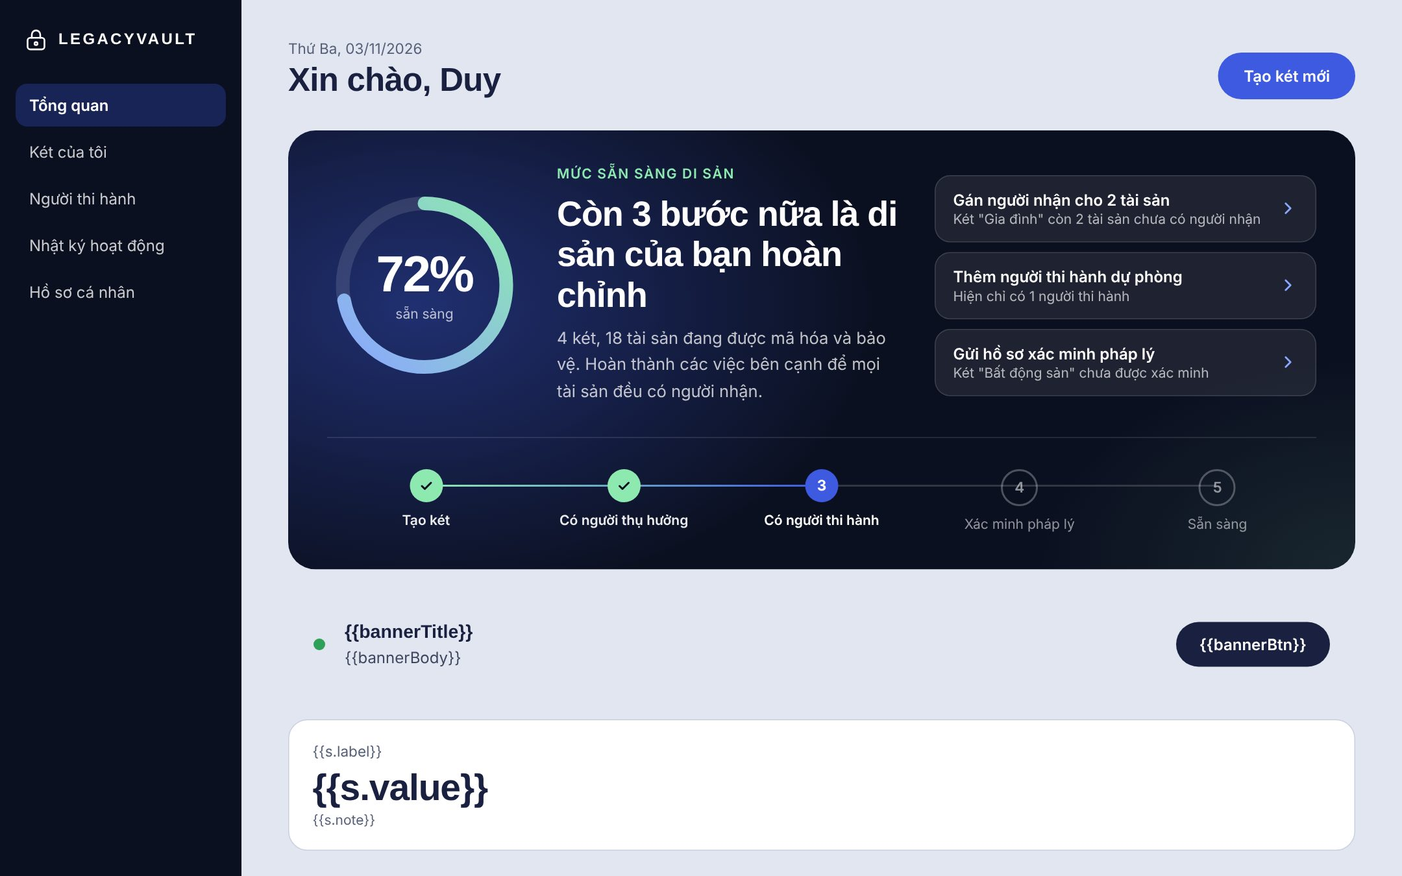
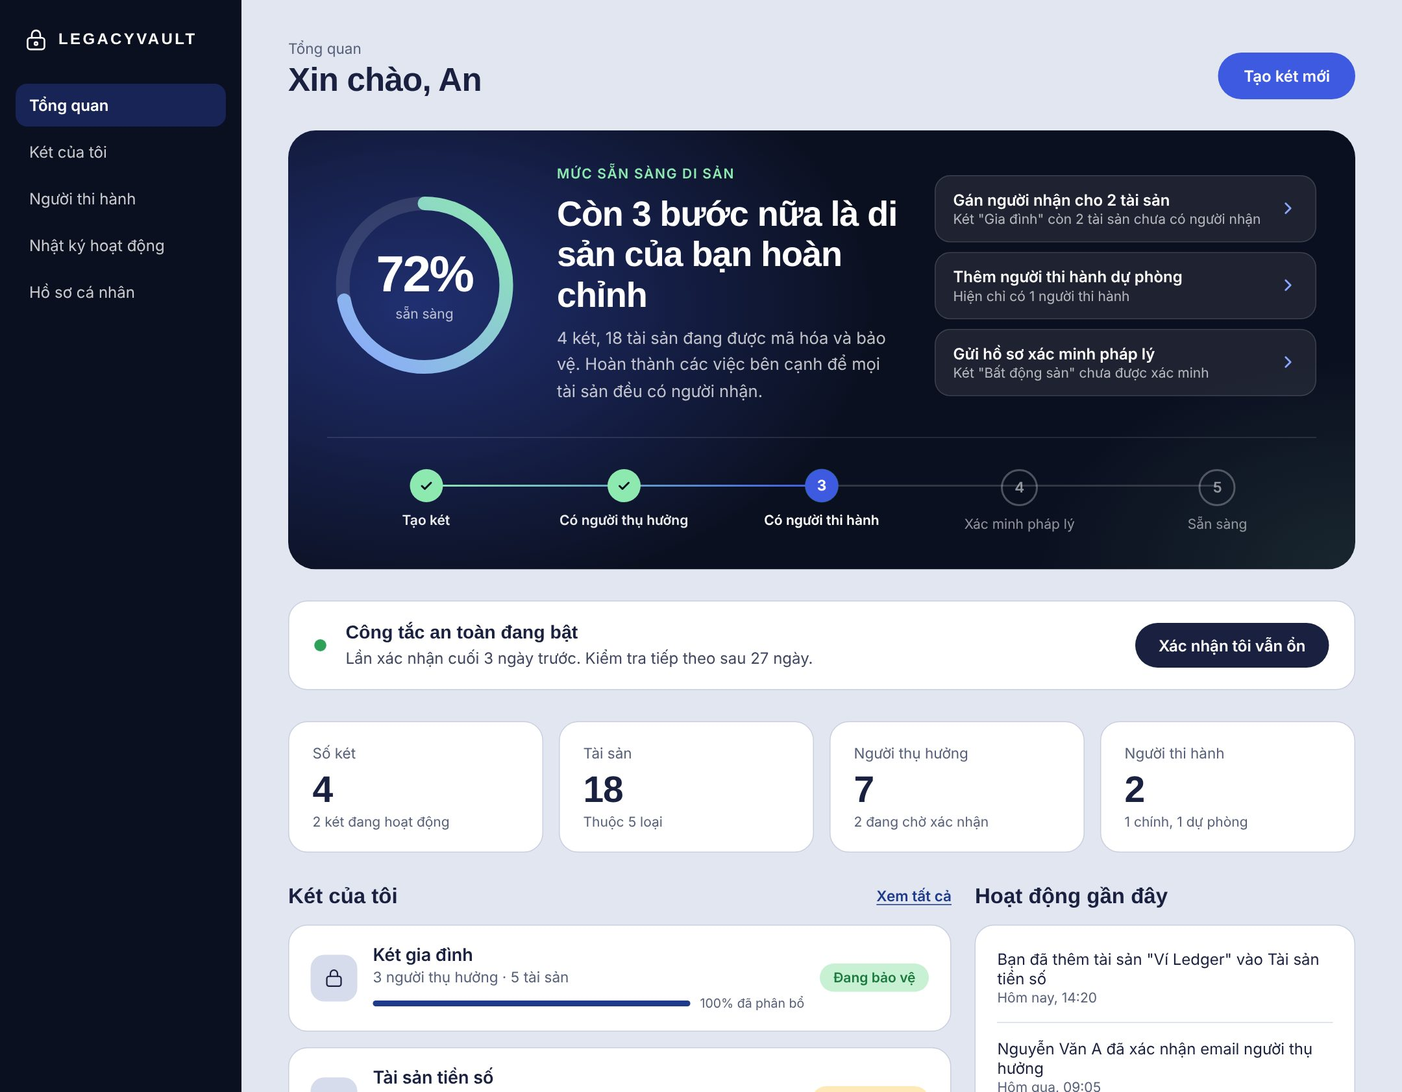
fix(fe): address review on new UI theme
- notification dropdown uses fixed positioning so the sidebar no longer clips it
- default sidebar menu is translated (nav.* keys) and picked by role on /me and /home
- NavLink end for verifier/home items so only one is active
- landing preview keys in en/vi, re-rendered preview image with sample data
- dark variant for LanguageSwitch in the sidebar
- remove global outline:none, replace brittle selectors with lv-pill / lv-auth-logo
- aria-label on logout button

diff --git a/frontend/src/Common/AppHeader.jsx b/frontend/src/Common/AppHeader.jsx
@@ -11,27 +11,39 @@ import LanguageSwitch from './LanguageSwitch.jsx';
 
 
 // Cùng một độ rộng cho header và nội dung mọi trang
-// Menu mặc định theo khu vực khi trang không tự truyền nav
-function defaultNav(pathname) {
-    const profile = { to: '/me', label: 'Profile', icon: 'person' };
-    if (pathname.startsWith('/executor')) return [{ to: '/executor/home', label: 'Estates', icon: 'badge' }, profile];
-    if (pathname.startsWith('/verifier') || pathname === '/home') {
-        if (pathname === '/home') return [{ to: '/home', label: 'Home', icon: 'home' }, profile];
-        return [
-            { to: '/verifier/home', label: 'Home', icon: 'home' },
-            { to: '/verifier', label: 'Requests', icon: 'gavel' },
-            { to: '/verifier/history', label: 'History', icon: 'history' },
-            profile,
+// Menu mặc định khi trang không tự truyền nav: theo khu vực của URL, còn /me và /home thì theo vai trò chính của user
+const ROLE_ORDER = ['ADMIN', 'OWNER', 'EXECUTOR', 'LEGAL_VERIFIER', 'BENEFICIARY'];
+function roleItems(role) {
+    switch (role) {
+        case 'ADMIN': return [{ to: '/admin/users', key: 'admin', icon: 'admin_panel_settings' }];
+        case 'OWNER': return [
+            { to: '/owner/vaults', key: 'myVaults', icon: 'inventory_2' },
+            { to: '/owner/dms', key: 'dms', icon: 'favorite' },
+            { to: '/owner/executors', key: 'executors', icon: 'badge' },
+            { to: '/owner/activity', key: 'activity', icon: 'history' },
+            { to: '/billing', key: 'billing', icon: 'workspace_premium' },
         ];
+        case 'EXECUTOR': return [{ to: '/executor/home', key: 'estates', icon: 'badge' }];
+        case 'LEGAL_VERIFIER': return [
+            { to: '/verifier', key: 'requests', icon: 'gavel', end: true },
+            { to: '/verifier/history', key: 'history', icon: 'history' },
+        ];
+        case 'BENEFICIARY': return [{ to: '/beneficiary', key: 'myVaults', icon: 'inventory_2', end: true }];
+        default: return [];
+    }
+}
+function defaultNav(pathname, roles) {
+    const home = { to: '/home', key: 'home', icon: 'home', end: true };
+    const profile = { to: '/me', key: 'profile', icon: 'person' };
+    if (pathname.startsWith('/executor')) return [{ to: '/executor/home', key: 'estates', icon: 'badge' }, profile];
+    if (pathname.startsWith('/verifier')) {
+        return [{ to: '/verifier/home', key: 'home', icon: 'home', end: true }, ...roleItems('LEGAL_VERIFIER'), profile];
     }
     if (pathname.startsWith('/beneficiary')) {
-        return [
-            { to: '/beneficiary', label: 'My vaults', icon: 'inventory_2' },
-            { to: '/beneficiary/guide', label: 'Guide', icon: 'menu_book' },
-            profile,
-        ];
+        return [{ to: '/beneficiary', key: 'myVaults', icon: 'inventory_2', end: true }, { to: '/beneficiary/guide', key: 'guide', icon: 'menu_book' }, profile];
     }
-    return [{ to: '/home', label: 'Home', icon: 'home' }, profile];
+    const main = ROLE_ORDER.find((r) => roles.includes(r));
+    return [home, ...roleItems(main), profile];
 }
 
 export const PAGE_WIDTH = 'max-w-6xl mx-auto px-5';
@@ -48,11 +60,13 @@ const Icon = ({ name, className = '' }) => <span className={`material-symbols-ou
  */
 export default function AppHeader({ icon = 'shield_locked', workspace, home = '/home', nav: navProp, extra, userHome = false }) {
     const { pathname } = useLocation();
-    const nav = navProp && navProp.length > 0 ? navProp : defaultNav(pathname);
     const { t } = useTranslation();
+    const user = getUser();
+    const nav = navProp && navProp.length > 0
+        ? navProp
+        : defaultNav(pathname, Array.isArray(user?.roles) ? user.roles : []).map(({ key, ...n }) => ({ ...n, label: t(`nav.${key}`) }));
     const { t: tPayment } = useTranslation('payment');
     const navigate = useNavigate();
-    const user = getUser();
     const isOwner = Array.isArray(user?.roles) && user.roles.includes('OWNER');
     const [vipStatus, setVipStatus] = useState(null);
 
@@ -118,7 +132,7 @@ export default function AppHeader({ icon = 'shield_locked', workspace, home = '/
             {nav?.length > 0 && (
                 <nav className="lv-side-nav">
                     {nav.map((n) => (
-                        <NavLink key={n.to} to={n.to}
+                        <NavLink key={n.to} to={n.to} end={n.end}
                                  className={({ isActive }) =>
                                      `${linkBase} ${isActive ? 'bg-primary-container text-white' : 'text-white/70 hover:text-white hover:bg-white/5'}`}>
                             <Icon name={n.icon} className="text-[20px]" /> {n.label}
@@ -152,7 +166,7 @@ export default function AppHeader({ icon = 'shield_locked', workspace, home = '/
                     </Link>
                 )}
                 <div className="flex items-center gap-2">
-                    <LanguageSwitch />
+                    <LanguageSwitch variant="dark" />
                     {extra}
                 </div>
                 <div className="flex items-center gap-3 pt-3 border-t border-white/10 min-w-0">
@@ -160,7 +174,7 @@ export default function AppHeader({ icon = 'shield_locked', workspace, home = '/
                         <UserAvatar name={user?.name} hasAvatar={user?.hasAvatar} version={user?.avatarVersion} />
                         <span className="text-sm font-semibold text-white truncate">{user?.name}</span>
                     </Link>
-                    <button type="button" onClick={handleLogout} title={t('header.logout')}
+                    <button type="button" onClick={handleLogout} title={t('header.logout')} aria-label={t('header.logout')}
                             className="h-9 w-9 rounded-full flex items-center justify-center text-white/75 hover:text-white hover:bg-white/10">
                         <Icon name="logout" className="text-[18px]" />
                     </button>

diff --git a/frontend/src/Beneficiary/NotificationBell.jsx b/frontend/src/Beneficiary/NotificationBell.jsx
@@ -38,6 +38,8 @@ export default function NotificationBell({ source = 'beneficiary' }) {
     const [serverUnread, setServerUnread] = useState(null);
     const [open, setOpen] = useState(false);
     const ref = useRef(null);
+    const btnRef = useRef(null);
+    const [pos, setPos] = useState(null);
 
     // Tải lại mỗi lần mở để thấy thông báo mới mà không cần F5
     useEffect(() => {
@@ -51,6 +53,24 @@ export default function NotificationBell({ source = 'beneficiary' }) {
         const onClick = (e) => { if (ref.current && !ref.current.contains(e.target)) setOpen(false); };
         document.addEventListener('mousedown', onClick);
         return () => document.removeEventListener('mousedown', onClick);
+    }, [open]);
+
+    // Dropdown dùng position: fixed để không bị cắt bởi thanh bên (overflow) và không tràn màn hình
+    useEffect(() => {
+        if (!open || !btnRef.current) return;
+        const place = () => {
+            const r = btnRef.current.getBoundingClientRect();
+            const W = 320, gap = 8, margin = 12;
+            const left = Math.max(margin, Math.min(r.right + gap, window.innerWidth - W - margin));
+            const belowFits = r.bottom + gap + 200 < window.innerHeight / 2 + 200 && r.top < window.innerHeight / 2;
+            setPos(belowFits
+                ? { left, top: r.bottom + gap, maxHeight: window.innerHeight - r.bottom - gap - margin }
+                : { left, bottom: window.innerHeight - r.bottom, maxHeight: r.bottom - margin });
+        };
+        place();
+        window.addEventListener('resize', place);
+        window.addEventListener('scroll', place, true);
+        return () => { window.removeEventListener('resize', place); window.removeEventListener('scroll', place, true); };
     }, [open]);
 
     const unread = serverUnread ?? items.filter((n) => !n.read).length;
@@ -68,7 +88,7 @@ export default function NotificationBell({ source = 'beneficiary' }) {
 
     return (
         <div className="relative" ref={ref}>
-            <button onClick={() => setOpen(!open)} className="relative w-10 h-10 rounded-xl border border-outline-variant flex items-center justify-center hover:bg-surface-container-low" aria-label="Notifications">
+            <button ref={btnRef} onClick={() => setOpen(!open)} className="relative w-10 h-10 rounded-xl border border-outline-variant flex items-center justify-center hover:bg-surface-container-low" aria-label="Notifications">
                 <span className="material-symbols-outlined text-[20px]">notifications</span>
                 {unread > 0 && (
                     <span className="absolute -top-1 -right-1 min-w-5 h-5 px-1 rounded-full bg-error text-on-error text-[11px] font-bold flex items-center justify-center">
@@ -76,8 +96,8 @@ export default function NotificationBell({ source = 'beneficiary' }) {
                     </span>
                 )}
             </button>
-            {open && (
-                <div className="absolute right-0 mt-2 w-80 max-h-96 overflow-y-auto bg-surface-container-lowest rounded-2xl border border-outline-variant/30 shadow-lg z-30">
+            {open && pos && (
+                <div style={pos} className="fixed w-80 max-w-[calc(100vw-24px)] overflow-y-auto bg-surface-container-lowest rounded-2xl border border-outline-variant/30 shadow-lg z-30">
                     <p className="px-4 py-3 text-sm font-semibold border-b border-outline-variant/30">Notifications</p>
                     {items.length === 0 && <p className="px-4 py-6 text-sm text-on-surface-variant text-center">No notifications yet.</p>}
                     {items.map((n) => (

diff --git a/frontend/src/LegalVerifier/VerificationRequestDetail.jsx b/frontend/src/LegalVerifier/VerificationRequestDetail.jsx
@@ -408,7 +408,7 @@ export default function VerificationRequestDetail() {
                                 <button
                                     onClick={askApprove}
                                     disabled={busy || !canApprove}
-                                    className="w-full h-14 rounded-xl bg-primary text-on-primary font-bold hover:bg-primary-container transition-all disabled:opacity-50"
+                                    className="w-full h-14 rounded-xl bg-primary text-on-primary font-bold hover:bg-primary-container transition-all disabled:opacity-50 lv-pill"
                                 >
                                     {t('detail.approveRequest')}
                                 </button>
@@ -428,7 +428,7 @@ export default function VerificationRequestDetail() {
                                     <button
                                         onClick={handleSendCode}
                                         disabled={busy}
-                                        className="w-full h-14 rounded-xl bg-primary text-on-primary font-bold hover:bg-primary-container transition-all disabled:opacity-50"
+                                        className="w-full h-14 rounded-xl bg-primary text-on-primary font-bold hover:bg-primary-container transition-all disabled:opacity-50 lv-pill"
                                     >
                                         {busy ? t('detail.sendingCode') : t('detail.sendCode')}
                                     </button>
@@ -456,7 +456,7 @@ export default function VerificationRequestDetail() {
                                         <button
                                             type="submit"
                                             disabled={busy}
-                                            className="w-full h-14 rounded-xl bg-primary text-on-primary font-bold hover:bg-primary-container transition-all disabled:opacity-50"
+                                            className="w-full h-14 rounded-xl bg-primary text-on-primary font-bold hover:bg-primary-container transition-all disabled:opacity-50 lv-pill"
                                         >
                                             {t('detail.signUnlock')}
                                         </button>

diff --git a/frontend/src/LogInLogOut/Login.jsx b/frontend/src/LogInLogOut/Login.jsx
@@ -95,7 +95,7 @@ export default function Login() {
         <AuthShell>
             <LanguageSwitch className="absolute top-4 right-4" />
             {/* Brand Header */}
-            <div className="mb-8 text-center">
+            <div className="mb-8 text-center lv-auth-logo">
                 <div className="w-12 h-12 rounded-2xl bg-primary text-on-primary flex items-center justify-center shadow-sm mx-auto mb-3">
                     <span className="material-symbols-outlined text-[28px]">shield_locked</span>
                 </div>
@@ -161,7 +161,7 @@ export default function Login() {
                         <button
                             type="submit"
                             disabled={loading}
-                            className="w-full h-12 mt-2 rounded-xl bg-primary text-on-primary font-label-md font-bold hover:bg-primary-container transition-all shadow-sm flex items-center justify-center gap-2"
+                            className="w-full h-12 mt-2 rounded-xl bg-primary text-on-primary font-label-md font-bold hover:bg-primary-container transition-all shadow-sm flex items-center justify-center gap-2 lv-pill"
                         >
                             <span className="material-symbols-outlined text-[18px]">login</span>
                             {loading ? t('login.submitting') : t('login.submit')}
@@ -191,7 +191,7 @@ export default function Login() {
                         <button
                             type="submit"
                             disabled={loading}
-                            className="w-full h-12 rounded-xl bg-primary text-on-primary font-label-md font-bold hover:bg-primary-container transition-all shadow-sm flex items-center justify-center gap-2"
+                            className="w-full h-12 rounded-xl bg-primary text-on-primary font-label-md font-bold hover:bg-primary-container transition-all shadow-sm flex items-center justify-center gap-2 lv-pill"
                         >
                             <span className="material-symbols-outlined text-[18px]">verified_user</span>
                             {loading ? t('mfa.verifying') : t('mfa.verify')}

diff --git a/frontend/src/LogInLogOut/ResetPassword.jsx b/frontend/src/LogInLogOut/ResetPassword.jsx
@@ -103,7 +103,7 @@ export default function ResetPassword() {
                         <p className="text-sm text-on-surface-variant mb-6">{t('reset.doneText')}</p>
                         <Link
                             to="/login"
-                            className="w-full h-12 rounded-xl bg-primary text-on-primary font-label-md font-bold hover:bg-primary-container transition-all shadow-sm flex items-center justify-center"
+                            className="w-full h-12 rounded-xl bg-primary text-on-primary font-label-md font-bold hover:bg-primary-container transition-all shadow-sm flex items-center justify-center lv-pill"
                         >
                             {t('reset.goToSignIn')}
                         </Link>
@@ -188,7 +188,7 @@ export default function ResetPassword() {
                             <button
                                 type="submit"
                                 disabled={loading}
-                                className="w-full h-12 mt-2 rounded-xl bg-primary text-on-primary font-label-md font-bold hover:bg-primary-container transition-all shadow-sm flex items-center justify-center gap-2 disabled:opacity-50"
+                                className="w-full h-12 mt-2 rounded-xl bg-primary text-on-primary font-label-md font-bold hover:bg-primary-container transition-all shadow-sm flex items-center justify-center gap-2 disabled:opacity-50 lv-pill"
                             >
                                 <span className="material-symbols-outlined text-[18px]">lock_reset</span>
                                 {loading ? t('reset.submitting') : t('reset.submit')}

diff --git a/frontend/src/Common/LanguageSwitch.jsx b/frontend/src/Common/LanguageSwitch.jsx
@@ -1,18 +1,19 @@
 import { useTranslation } from 'react-i18next';
 import { LANGS } from '../i18n/index.js';
 
-export default function LanguageSwitch({ className = '' }) {
+export default function LanguageSwitch({ className = '', variant = 'light' }) {
     const { t, i18n } = useTranslation();
     const current = i18n.resolvedLanguage;
+    const dark = variant === 'dark';
     return (
         <div role="group" aria-label={t('language.label')}
-             className={`h-10 flex items-center rounded-xl border border-outline-variant overflow-hidden text-sm font-semibold ${className}`}>
+             className={`h-10 flex items-center rounded-xl border ${dark ? 'border-white/25' : 'border-outline-variant'} overflow-hidden text-sm font-semibold ${className}`}>
             {LANGS.map((lng) => (
                 <button key={lng} type="button" onClick={() => i18n.changeLanguage(lng)}
                         aria-pressed={current === lng}
                         className={`h-full px-2.5 ${current === lng
-                            ? 'bg-primary text-on-primary'
-                            : 'text-on-surface-variant hover:bg-surface-container-low'}`}>
+                            ? (dark ? 'bg-white text-primary' : 'bg-primary text-on-primary')
+                            : (dark ? 'text-white/70 hover:text-white hover:bg-white/10' : 'text-on-surface-variant hover:bg-surface-container-low')}`}>
                     {t(`language.${lng}`)}
                 </button>
             ))}

diff --git a/frontend/src/Dashboard.jsx b/frontend/src/Dashboard.jsx
@@ -151,9 +151,9 @@ export default function Dashboard() {
             {/* PREVIEW — khung trình duyệt nghiêng, cuộn tới thì dựng thẳng */}
             <section data-mode="dark" className="relative z-10 px-5 py-24 text-center text-white overflow-hidden">
                 <div className="lv-reveal max-w-2xl mx-auto mb-12">
-                    <p className="font-label-sm uppercase tracking-wider mb-2 text-[#b9c9ff]">{t('preview.eyebrow', { defaultValue: 'Xem trước' })}</p>
-                    <h2 className="font-headline-md text-headline-md">{t('preview.title', { defaultValue: 'Mọi thứ về di sản số, trong một màn hình' })}</h2>
-                    <p className="mt-3 text-white/70">{t('preview.text', { defaultValue: 'Biết rõ mức sẵn sàng, việc cần làm và tiến độ bàn giao ngay khi đăng nhập.' })}</p>
+                    <p className="font-label-sm uppercase tracking-wider mb-2 text-[#b9c9ff]">{t('preview.eyebrow')}</p>
+                    <h2 className="font-headline-md text-headline-md">{t('preview.title')}</h2>
+                    <p className="mt-3 text-white/70">{t('preview.text')}</p>
                 </div>
                 <div className="lv-tilt max-w-5xl mx-auto rounded-2xl border border-white/15 bg-white/5 p-2 shadow-2xl" style={{ perspective: '1200px' }}>
                     <div className="flex items-center gap-1.5 px-3 py-2">

diff --git a/frontend/src/LogInLogOut/ForgotPassword.jsx b/frontend/src/LogInLogOut/ForgotPassword.jsx
@@ -36,7 +36,7 @@ export default function ForgotPassword() {
         <AuthShell>
             <LanguageSwitch className="absolute top-4 right-4" />
             {/* Brand Header */}
-            <div className="mb-8 text-center">
+            <div className="mb-8 text-center lv-auth-logo">
                 <div className="w-12 h-12 rounded-2xl bg-primary text-on-primary flex items-center justify-center shadow-sm mx-auto mb-3">
                     <span className="material-symbols-outlined text-[28px]">lock_reset</span>
                 </div>
@@ -69,7 +69,7 @@ export default function ForgotPassword() {
                     <button
                         type="submit"
                         disabled={loading}
-                        className="w-full h-12 rounded-xl bg-primary text-on-primary font-label-md font-bold hover:bg-primary-container transition-all shadow-sm flex items-center justify-center gap-2 disabled:opacity-50"
+                        className="w-full h-12 rounded-xl bg-primary text-on-primary font-label-md font-bold hover:bg-primary-container transition-all shadow-sm flex items-center justify-center gap-2 disabled:opacity-50 lv-pill"
                     >
                         <span className="material-symbols-outlined text-[18px]">send</span>
                         {loading ? t('forgot.submitting') : t('forgot.submit')}

diff --git a/frontend/src/index.css b/frontend/src/index.css
@@ -13,12 +13,7 @@ body {
 }
 
 /* Nút chính (nền navy) bo tròn dạng viên thuốc, giống bản thiết kế */
-a.bg-primary.rounded-xl,
-button.bg-primary.rounded-xl,
-a.bg-secondary.rounded-xl,
-button.bg-secondary.rounded-xl {
-  border-radius: 999px;
-}
+.lv-pill { border-radius: 999px; }
 
 /* Thẻ nổi nhẹ hơn */
 .lv-rise { animation: lv-rise .5s ease both; }
@@ -27,7 +22,7 @@ button.bg-secondary.rounded-xl {
 
 /* Trang auth: trên màn rộng, logo đã nằm ở panel trái nên ẩn khối logo trùng bên phải */
 @media (min-width: 1024px) {
-  .lv-auth-form > div.mb-8.text-center { display: none; }
+  .lv-auth-logo { display: none; }
 }
 
 /* Thanh bên (AppHeader). Desktop: cố định bên trái 248px. Điện thoại: thanh ngang phía trên. */
@@ -78,5 +73,4 @@ button.bg-secondary.rounded-xl {
 /* Thẻ nổi nhẹ như bản thiết kế; bảng và danh sách trong thẻ thoáng hơn */
 .bg-surface-container-lowest.rounded-2xl,
 .bg-surface-container-lowest.rounded-3xl { box-shadow: 0 1px 2px rgba(11,16,32,.05), 0 12px 30px -18px rgba(11,16,32,.25); }
-input:focus-visible, select:focus-visible, textarea:focus-visible { outline: none; }
 table th { letter-spacing: .04em; }

diff --git a/frontend/src/Admin/AdminAuditLogs.jsx b/frontend/src/Admin/AdminAuditLogs.jsx
@@ -65,7 +65,7 @@ export default function AdminAuditLogs() {
                 <input type="datetime-local" value={filters.from} onChange={set('from')} className={inputClass} title={t('audit.from')} />
                 <input type="datetime-local" value={filters.to} onChange={set('to')} className={inputClass} title={t('audit.to')} />
                 <div className="flex gap-2">
-                    <button type="submit" className="h-11 px-5 rounded-xl bg-primary text-on-primary font-bold inline-flex items-center gap-2">
+                    <button type="submit" className="h-11 px-5 rounded-xl bg-primary text-on-primary font-bold inline-flex items-center gap-2 lv-pill">
                         <Icon name="search" className="text-[18px]" /> {t('search')}
                     </button>
                     <button type="button" onClick={reset} className="h-11 px-3 rounded-xl border border-outline-variant text-sm font-semibold">{t('reset')}</button>

diff --git a/frontend/src/Owner/ownerUi.jsx b/frontend/src/Owner/ownerUi.jsx
@@ -44,7 +44,7 @@ export function Alert({type = 'error', children}) {
 export const inputClass =
     'w-full h-11 px-4 rounded-xl border border-outline-variant bg-background text-on-surface focus:outline-none focus:border-primary focus:ring-1 focus:ring-primary';
 export const btnPrimary =
-    'h-11 px-5 rounded-xl bg-primary text-on-primary font-bold inline-flex items-center justify-center gap-2 hover:bg-primary-container disabled:opacity-60 disabled:cursor-not-allowed';
+    'h-11 px-5 rounded-xl bg-primary text-on-primary font-bold inline-flex items-center justify-center gap-2 hover:bg-primary-container disabled:opacity-60 disabled:cursor-not-allowed lv-pill';
 export const btnOutline =
     'h-11 px-5 rounded-xl border border-outline-variant text-primary font-bold inline-flex items-center justify-center gap-2 hover:bg-surface-container-low disabled:opacity-60 disabled:cursor-not-allowed';
 export const btnDanger =

diff --git a/frontend/src/LogInLogOut/Register.jsx b/frontend/src/LogInLogOut/Register.jsx
@@ -133,7 +133,7 @@ export default function Register() {
                     <button
                         type="submit"
                         disabled={loading}
-                        className="w-full h-12 mt-3 rounded-xl bg-primary text-on-primary font-label-md font-bold hover:bg-primary-container transition-all shadow-sm flex items-center justify-center gap-2 disabled:opacity-60 disabled:cursor-not-allowed"
+                        className="w-full h-12 mt-3 rounded-xl bg-primary text-on-primary font-label-md font-bold hover:bg-primary-container transition-all shadow-sm flex items-center justify-center gap-2 disabled:opacity-60 disabled:cursor-not-allowed lv-pill"
                     >
                         <span className="material-symbols-outlined text-[18px]">how_to_reg</span>
                         {loading ? t('register.submitting') : t('register.submit')}
